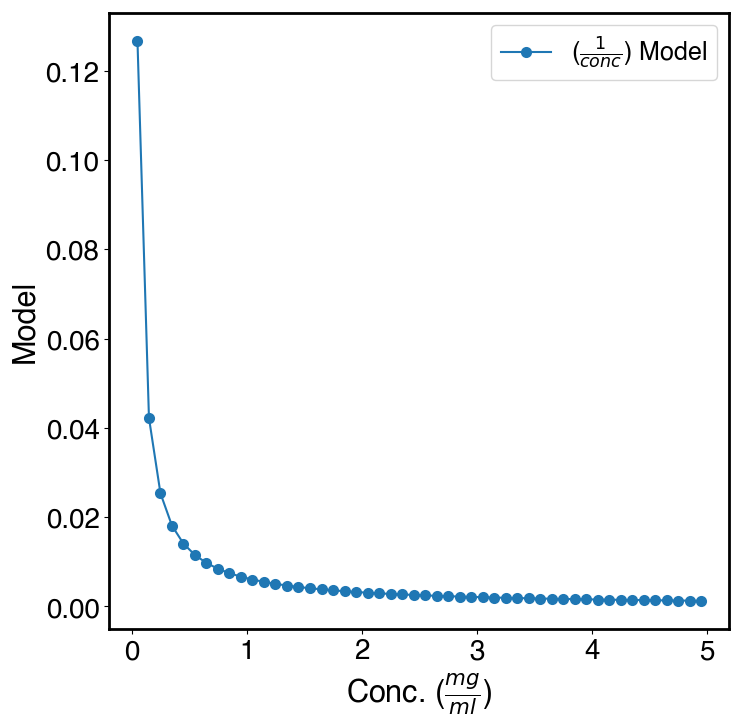
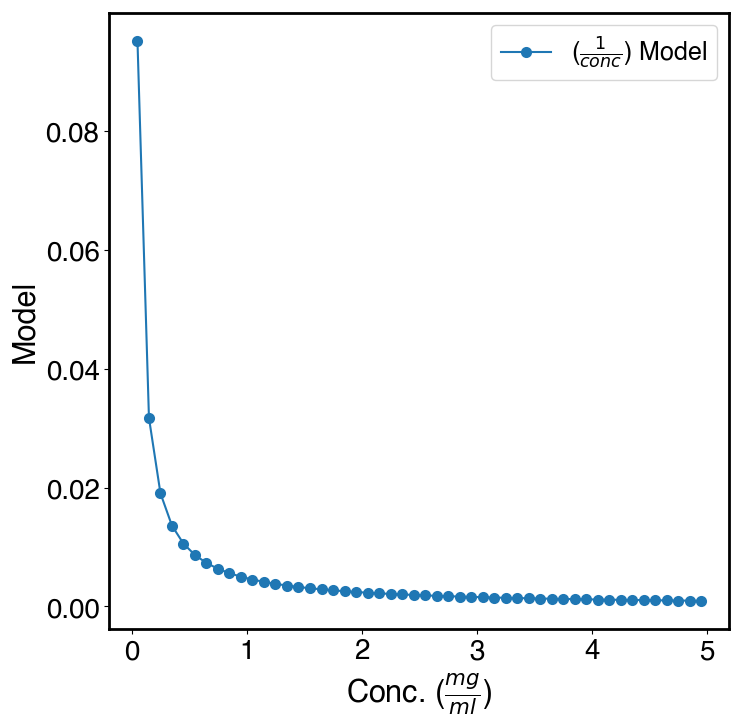
clean up

diff --git a/SAXSProf.py b/SAXSProf.py
@@ -182,7 +182,6 @@ for i in range(len(ps)):
 
 
 I = saxs1.I_of_q_variable_contrast(saxs1.c, saxs1.mw, saxs1.buf_model_q, rho)
-# print ('testing function:', len(I), len(rho))
 err_data.plot_S2(saxs1.buf_model_q, I[0], I[6], plotlabel1= '0 MPa',
                  plotlabel2='350 MPa',
                  savelabel='Scattering_Curve_AtMultiplePressures',
@@ -191,9 +190,9 @@ err_data.plot_S2(saxs1.buf_model_q, I[0], I[6], plotlabel1= '0 MPa',
 
 rho, Rg_error_contrast, sig2_Rg_out = err_data.calc_errRg_contrast()
 
-err_data.plot_S1(rho, Rg_error_contrast,
+err_data.plot_S1(rho, [x * 100 for x in Rg_error_contrast],
                  plotlabel= 'Simulated Error', savelabel = 'Sim_err_Rg_func_of_Contrast',
-                 xlabel = '$\Delta \\rho (UNITS)$', ylabel = '($\\frac{\sigma_{R_{g}}}{R_{g}}$)')
+                 xlabel = '$\Delta \\rho (UNITS)$', ylabel = '($\\frac{\sigma_{R_{g}}}{R_{g}}$) $\cdot 100$')
 
 ######################################################
 
